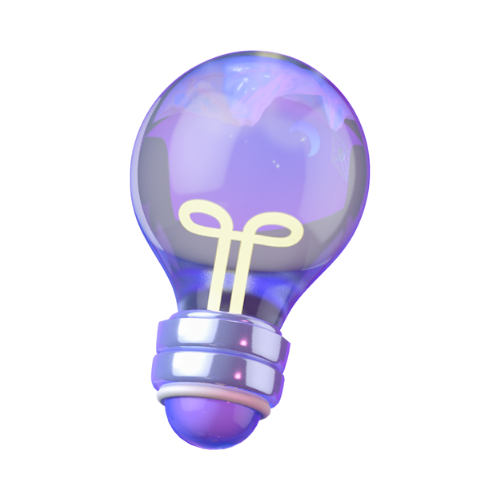
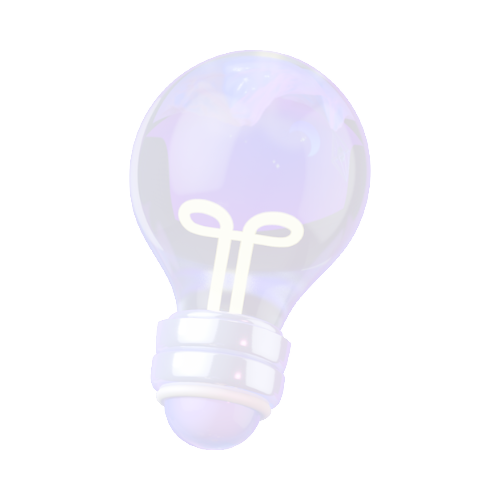
fix: bugs

Changed region(s): [[0.24, 0.09, 0.75, 0.9]]

diff --git a/src/pages/Text23D/index.js b/src/pages/Text23D/index.js
@@ -68,7 +68,7 @@ export default function Text23D() {
                     backgroundColor: "#11141D",
                     color: "white",
                     width: "100%",
-                    height: "100%",
+                    height: "fit-content",
                     backgroundImage: `url(${bg})`, // Replace with your image URLs
                     backgroundPosition: "top left, bottom right", // Positions
                     backgroundSize: "cover, cover", // First image covers the box, second image is 100x100 pixels
@@ -111,7 +111,7 @@ export default function Text23D() {
                         prompt={prompt}
                     />
                 </Box>
-                <Box display={"flex"} gap={"10rem"} alignItems={"center"}>
+                <Box display={"flex"} alignItems={"center"}>
                     <Box
                         height="545px"
                         display={"flex"}
@@ -121,20 +121,12 @@ export default function Text23D() {
                         borderRadius={"23px"}
                         padding={"23px 17px 23px 30px"}
                         sx={{
+                            zIndex: 99,
                             boxShadow: "0px 0px 0px 3px #000000",
                             backgroundColor: "#000000",
-                            "&:before": {
-                                content: '""',
-                                position: "absolute",
-                                top: 50,
-                                left: -500,
-                                height: "100%",
-                                width: "100%",
-                                background: `url(${lightBulb})`,
-                                backgroundRepeat: "no-repeat",
-                                backgroundPosition: "center",
-                                opacity: "0.2",
-                            },
+                            backgroundImage: `url(${lightBulb})`,
+                            backgroundRepeat: "no-repeat",
+                            backgroundPosition: "center",
                         }}
                     >
                         <Box display={"flex"} flexDirection={"column"} gap={"20px"} flex={1}>
@@ -185,7 +177,7 @@ export default function Text23D() {
                         </Box>
                     </Box>
 
-                    <Box height="545px">
+                    <Box height="100%">
                         {model && <DisplayModel link={model} type={selectedTab} obj={objModel} />}
                     </Box>
                 </Box>

diff --git a/src/components/DisplayModel/index.js b/src/components/DisplayModel/index.js
@@ -23,7 +23,7 @@ export default function DisplayModel({ link, type = "shaded", obj }) {
         <Canvas
             camera={{ position: [-0.5, 1, 2] }}
             shadows
-            style={{ height: "100%", width: "800px" }}
+            style={{ position: "absolute", top: 0, left: 0, height: "100%", width: "100%" }}
         >
             {/* eslint-disable react/no-unknown-property */}
             <directionalLight
